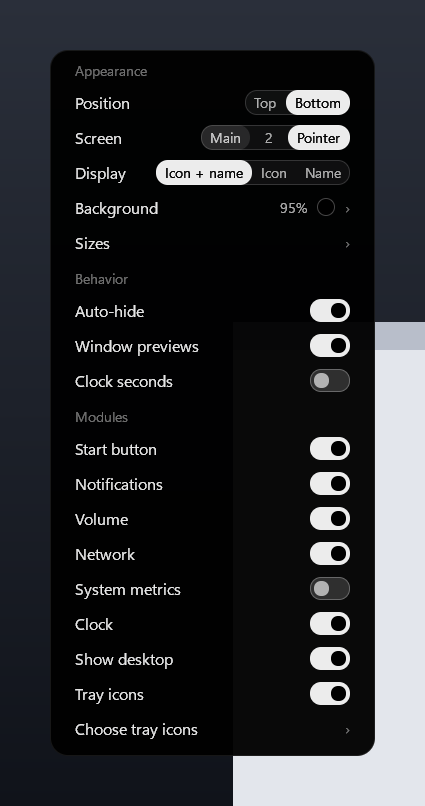
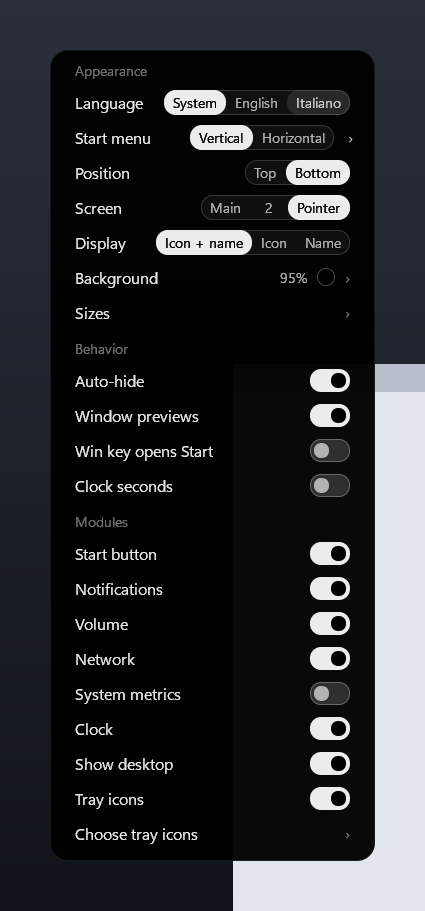
docs: screenshots and README for Desox's new features
Preview renders two new views (audio Customize mode, Settings in Italian); README gets a gallery of the horizontal Start, volume popup, language and Start import, plus features, usage and the four new config keys. Existing screenshots refreshed.

diff --git a/src/preview.rs b/src/preview.rs
@@ -538,11 +538,15 @@ fn make_popup(name: &str, m: Metrics) -> Option<Box<dyn Content>> {
             notif::preview_set_state(mock_notifications(), icons);
             crate::popup_notif::new()
         }
-        "popup_audio" => {
+        "popup_audio" | "popup_audio_customize" => {
             let mut c = crate::popup_audio::new(VolumeState { level: 60, muted: false, available: true });
             c.data(&DataEvent::AudioOutputs(mock_outputs()));
             c.data(&DataEvent::Spatial(Some(mock_spatial())));
             c.data(&DataEvent::AudioSessions(mock_sessions()));
+            if name == "popup_audio_customize" {
+                // The pencil only flips the Customize mode: nothing is saved.
+                c.click(crate::popup_audio::ID_EDIT);
+            }
             c
         }
         "popup_calendar" => crate::popup_calendar::new(),
@@ -557,6 +561,11 @@ fn make_popup(name: &str, m: Metrics) -> Option<Box<dyn Content>> {
         "popup_power" => crate::popup_power::new(),
         // No displays passed: no "Screen" row, whatever monitors this machine has.
         "popup_settings" => crate::popup_settings::preview_with_screens(Vec::new()),
+        // Italian texts: the caller lifts the preview's forced English around this one.
+        "popup_settings_it" => {
+            crate::config::set(Config { language: crate::config::Language::It, ..Config::default() });
+            crate::popup_settings::preview_with_screens(Vec::new())
+        }
         "popup_settings_navy" => {
             crate::config::set(Config {
                 background: Background(0x0E1A33),
@@ -805,6 +814,8 @@ pub fn run(dir: &str) -> i32 {
         for (name, nth) in [
             ("popup_notif", 1),
             ("popup_audio", 3),
+            ("popup_audio_customize", 2),
+            ("popup_settings_it", 3),
             ("popup_calendar", 8),
             ("popup_network", 0),
             ("popup_network_offline", 9),
@@ -830,10 +841,17 @@ pub fn run(dir: &str) -> i32 {
         ] {
             // Popups read the background tone from the config: every one starts from the defaults.
             crate::config::set(Config::default());
+            let italian = name.ends_with("_it");
+            if italian {
+                crate::i18n::set_preview(false);
+            }
             let ok = match make_popup(name, m) {
                 Some(c) => popup_png(dir, &format!("{name}{suffix}.png"), m, c, nth),
                 None => false,
             };
+            if italian {
+                crate::i18n::set_preview(true);
+            }
             failures += i32::from(!ok);
         }
     }

diff --git a/src/popup_audio.rs b/src/popup_audio.rs
@@ -40,7 +40,8 @@ const ID_MUTE: u32 = 1;
 const ID_SLIDER: u32 = 2;
 const ID_MIXER: u32 = 3;
 /// Pencil button: Customize mode on / off.
-const ID_EDIT: u32 = 4;
+/// PREVIEW-HOOK: `preview` clicks it to render the Customize mode.
+pub(crate) const ID_EDIT: u32 = 4;
 /// Header of section `ID_HEAD + section` (0..=3): expand / collapse; in Customize mode also the
 /// handle that drags the section to a new place.
 const ID_HEAD: u32 = 10;

diff --git a/README.md b/README.md
@@ -32,6 +32,20 @@ New in this fork:
 |---|---|---|
 | ![](docs/screenshots/popup_startmenu.png) | ![](docs/screenshots/popup_startmenu_search.png) | ![](docs/screenshots/popup_settings_pointer.png) |
 
+New from [Desox's PR #1](https://github.com/Ragnatela666/mini-oled-dock/pull/1) (all optional, off by default):
+
+| Horizontal Start | Horizontal Start: all apps | Horizontal Start: power flyout |
+|---|---|---|
+| ![](docs/screenshots/popup_startmenu_h.png) | ![](docs/screenshots/popup_startmenu_h_all.png) | ![](docs/screenshots/popup_startmenu_h_power.png) |
+
+| Volume: spatial sound and mixer | Volume: customize mode | Settings in Italian |
+|---|---|---|
+| ![](docs/screenshots/popup_audio.png) | ![](docs/screenshots/popup_audio_customize.png) | ![](docs/screenshots/popup_settings_it.png) |
+
+| Settings: Start menu (import from Windows) |
+|---|
+| ![](docs/screenshots/popup_settings_startmenu.png) |
+
 ## Features
 
 - Centred bar sized to its content: pinned apps first, then open apps. An underline marks open windows (orange when an app asks for attention).
@@ -52,6 +66,12 @@ New in this fork:
 - **Follow the pointer** (fork): with Settings -> Screen -> "Pointer", the Win key brings the bar to the display under the mouse pointer.
 - **Start menu on any display** (fork): a quick double tap of the Win key (or a left click on the Start button) opens the dock's own Start menu next to the Start button, on the display under the pointer (the native one only opens on the primary taskbar's display). It lists every app of the native Start menu, classic programs and Store apps alike; type to search (Enter launches the first result, arrows move the selection, Esc clears), and right-click an app to pin it at the top (`start_pins` in the config, separate from the bar pins). Double tap again or Esc to close.
 - **Working notifications** (fork): a click on a notification brings the app that sent it to the front (or launches it; if the app cannot be found, the Windows notification centre opens) and removes the notification; **Clear all** and the **X** of a single notification also remove them from Windows' notification history, so they no longer come back.
+- **Win key opens Start** (Desox, off by default): one tap of Win opens the dock and the Start menu together in a single animation, the next tap closes both; with auto-hide off the dock stays and Win only toggles Start.
+- **Language** (Desox): Settings → Appearance → Language: System (default, follows Windows), English or Italian, applied at once, clock and calendar included.
+- **Horizontal Start** (Desox, off by default): Settings → Start menu → Horizontal gives a Windows 11-style layout with search on top, a 6×3 pinned grid with pages, an alphabetical "All apps" list, and a power flyout (Sleep, Lock, Restart, Shut down, Settings, Close dock) inside the menu. Both styles share the same `start_pins`. **Import from Windows Start** copies your Windows pins in the same order (it runs `Export-StartLayout` once, hidden, with a 30 s limit).
+- **Spatial sound and volume mixer** (Desox): the volume popup lists the spatial formats really available on the current output (Windows Sonic, Dolby Atmos for Headphones, ...) and one row per app playing audio (up to 8, with mute and slider), plus System sounds.
+- **Customizable volume popup** (Desox): each section (Master volume, Output, Spatial sound, Mixer) can be collapsed; the pencil enters Customize mode, where an eye hides or shows a section and dragging its header reorders it. A collapsed or hidden section loads nothing.
+- **Fixes** (Desox): tray right-click menus open centred above their icon (G HUB's panel no longer jumps to the top-left corner), apps launched from the dock open in the foreground, and the Win key keeps Start open over fullscreen games that grab the foreground back.
 - Auto-hide with a slide animation: the bar shows on the Win key or when the pointer touches the screen edge, and hides after 2.5 s.
 - Autostart without UAC prompts (scheduled task).
 - Watchdog process that always restores the native taskbar.
@@ -91,7 +111,7 @@ The logon task runs the dock elevated, so the installed copy lives in an admin-o
 - **Start menu:** double tap the Win key (second tap within 300 ms; the first tap is not delayed) or left click the Start button. Type to search, Enter launches the first result, arrows and the wheel scroll, right click pins / unpins an app, Esc clears the search and then closes. Right click on the Start button still opens the quick-links menu.
 - **Notifications:** click one to switch to its app, X removes it, **Clear all** empties the list and the Windows history.
 - **App entries:** left click activates, minimises or cycles windows; middle click starts a new instance; right click opens the app menu; resting the pointer on an app with several windows shows a preview of each (click one to switch to it).
-- **Volume:** wheel changes it, middle click mutes, left click opens the audio popup.
+- **Volume:** wheel changes it, middle click mutes, left click opens the audio popup (output, spatial sound, per-app mixer). Click a section header to collapse it; the pencil at the bottom enters Customize mode (eye = hide / show, drag a header to reorder).
 - **Network:** left click opens the network popup (connection, internet, IPv4, signal, "Network settings"); right click opens Windows' network settings.
 - **System metrics:** click opens Task Manager.
 - **Settings:** power button, then **Settings**: position, screen (with two or more displays: **Main**, the display number or **Pointer**), display mode, auto-hide, window previews, clock seconds, one switch per module, **Choose tray icons** (which tray icons stay in the bar) and two sub-pages:
@@ -132,6 +152,10 @@ The logon task runs the dock elevated, so the installed copy lives in an admin-o
 | `pinned` | `[]` | Pinned apps, in display order |
 | `start_pins` | `[]` | Apps pinned at the top of the dock's Start menu (separate from `pinned`; right click an app in the menu to add or remove it) |
 | `names` | `{}` | Display-name overrides (key: lowercase exe name or AUMID) |
+| `language` | `"auto"` | Dock language: `"auto"` (Windows display language), `"en"` or `"it"` |
+| `win_opens_start` | `false` | One tap of Win opens the dock and the Start menu together |
+| `start_style` | `"vertical"` | Start menu layout: `"vertical"` or `"horizontal"` |
+| `audio_layout` | `"MOSX"` | Volume popup sections in order (M master, O output, S spatial, X mixer; lowercase = collapsed, `-` in front = hidden); normally set from the popup |
 
 The bar height follows the tallest content; the defaults give the original 36 px bar. An old `bar_size` value (`"small"`, `"medium"`, `"large"`) is converted once into the four sizes.
 
